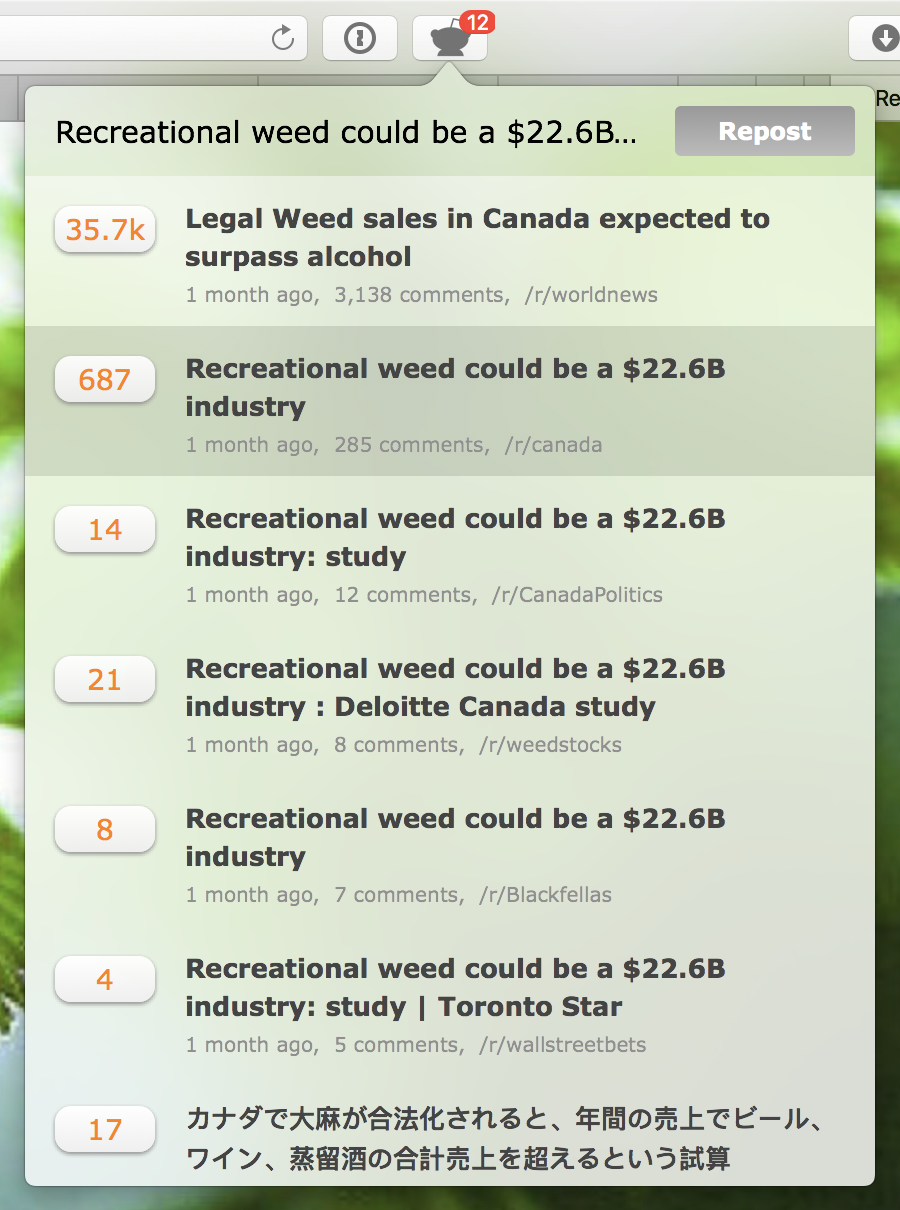
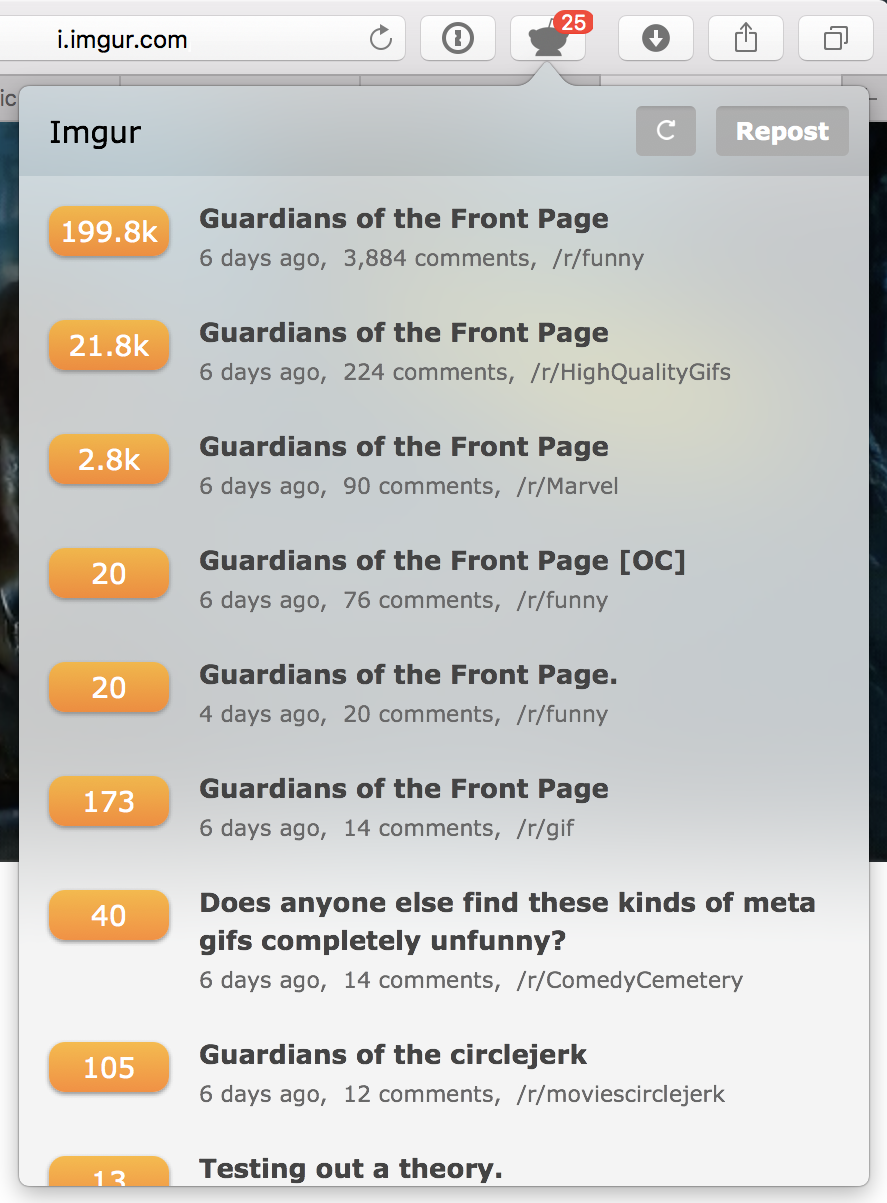
Improved discussion score and button designs, and tweaked opacity

diff --git a/src/pages/css/popover.css b/src/pages/css/popover.css
@@ -23,7 +23,7 @@ body {
 .link-button {
     text-decoration: none;
     border-radius: 3px;
-    background: linear-gradient(to bottom, #999999, #aaaaaa 10%);
+    background: linear-gradient(to bottom, rgba(153, 153, 153, 1), rgba(170, 170, 170, 1) 10%);
     color: white;
     font-size: 12px;
     text-align: center;
@@ -34,7 +34,7 @@ body {
 }
 
 .link-button:hover {
-    background: linear-gradient(to bottom, #6699FF, #66CCFF 20%);
+    background: linear-gradient(to bottom, rgba(255, 128, 0, 0.9), rgba(255, 178, 0, 0.9) 20%);
     -webkit-transition: background 2s;
     transition: background 2s;
 }
@@ -55,12 +55,12 @@ body {
 .discussion {
     list-style-type: none;
     padding: 10px;
-    background: rgba(255, 255, 255, 0.5);
+    background: rgba(255, 255, 255, 0.3);
     display: flex;
 }
 
 .discussion:hover {
-    background: rgba(204, 204, 204, 0.5);
+    background: rgba(204, 204, 204, 0.3);
 }
 
 .link {
@@ -88,11 +88,11 @@ body {
 .score {
     font-size: 14px;
     text-align: center;
-    background: linear-gradient(to bottom, rgba(255, 255, 255, 0.9), rgba(238, 238, 238, 0.9));
-    color: #FF8000;
+    background: linear-gradient(to bottom, rgba(255, 178, 0, 0.9), rgba(255, 128, 0, 0.9));
+    color: white;
     box-shadow: 0 1px 3px #888888;
     border-radius: 8px;
-    padding: 3px 5px 3px 5px;
+    padding: 4px 5px;
     margin: 5px;
     min-width: 40px;
 }
